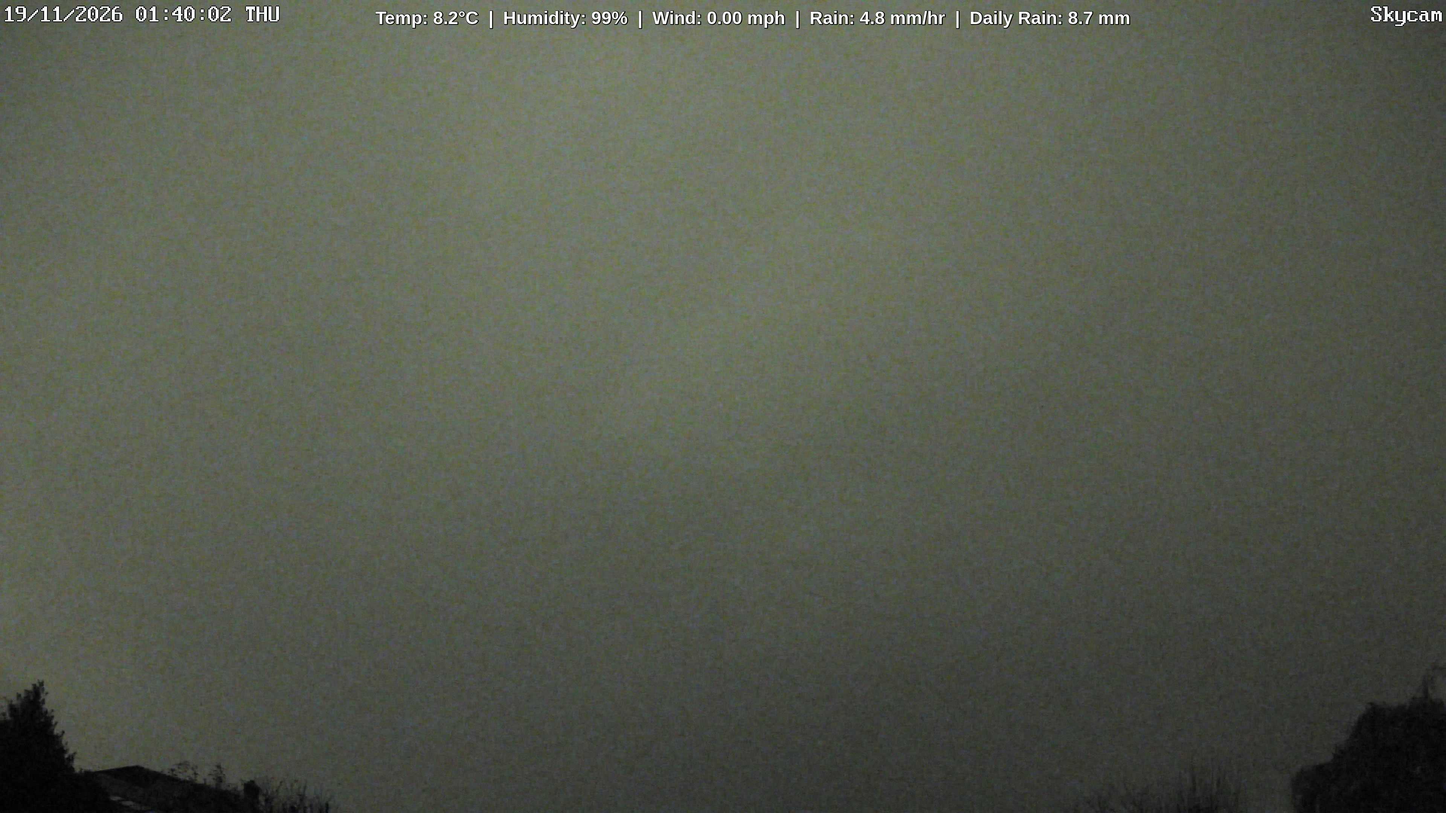
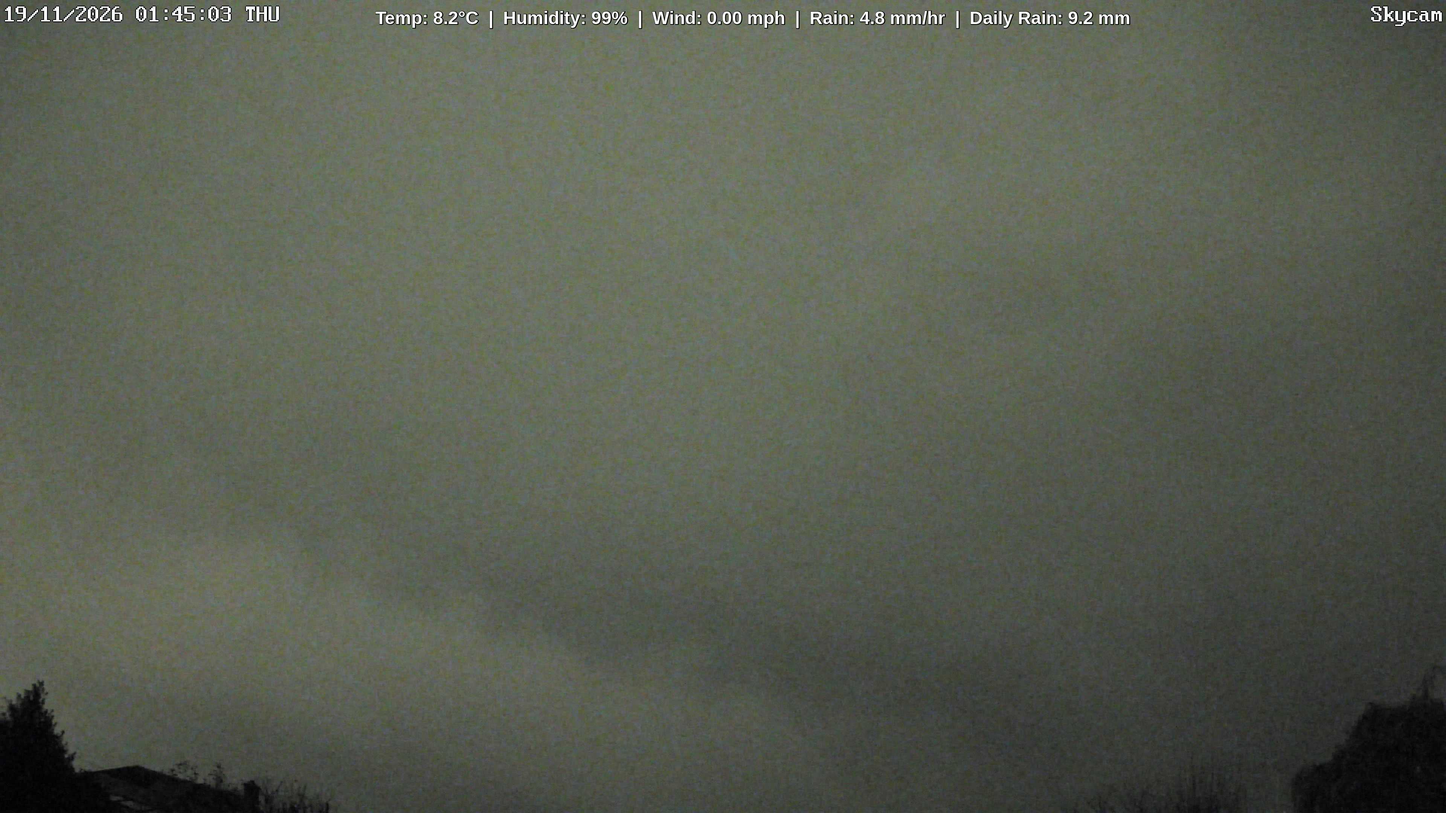
Update weather cam image with synchronized dual-layer weather metrics

Changed region(s): [[0.0938, 0.6514, 0.5625, 0.9616], [0.125, 0.0, 0.1562, 0.031]]

diff --git a/index.html b/index.html
@@ -32,7 +32,7 @@
 </head>
 <body>
     <img id="weathercam" alt="Live Weather Snapshot">
-    <div class="banner">Temp: 8.2°C  |  Humidity: 99%  |  Wind: 0.00 mph  |  Rain: 4.8 mm/hr  |  Daily Rain: 8.7 mm</div>
+    <div class="banner">Temp: 8.2°C  |  Humidity: 99%  |  Wind: 0.00 mph  |  Rain: 4.8 mm/hr  |  Daily Rain: 9.2 mm</div>
 
     <script>
         // Shatter mobile cache engines by appending a live unique runtime timestamp 
